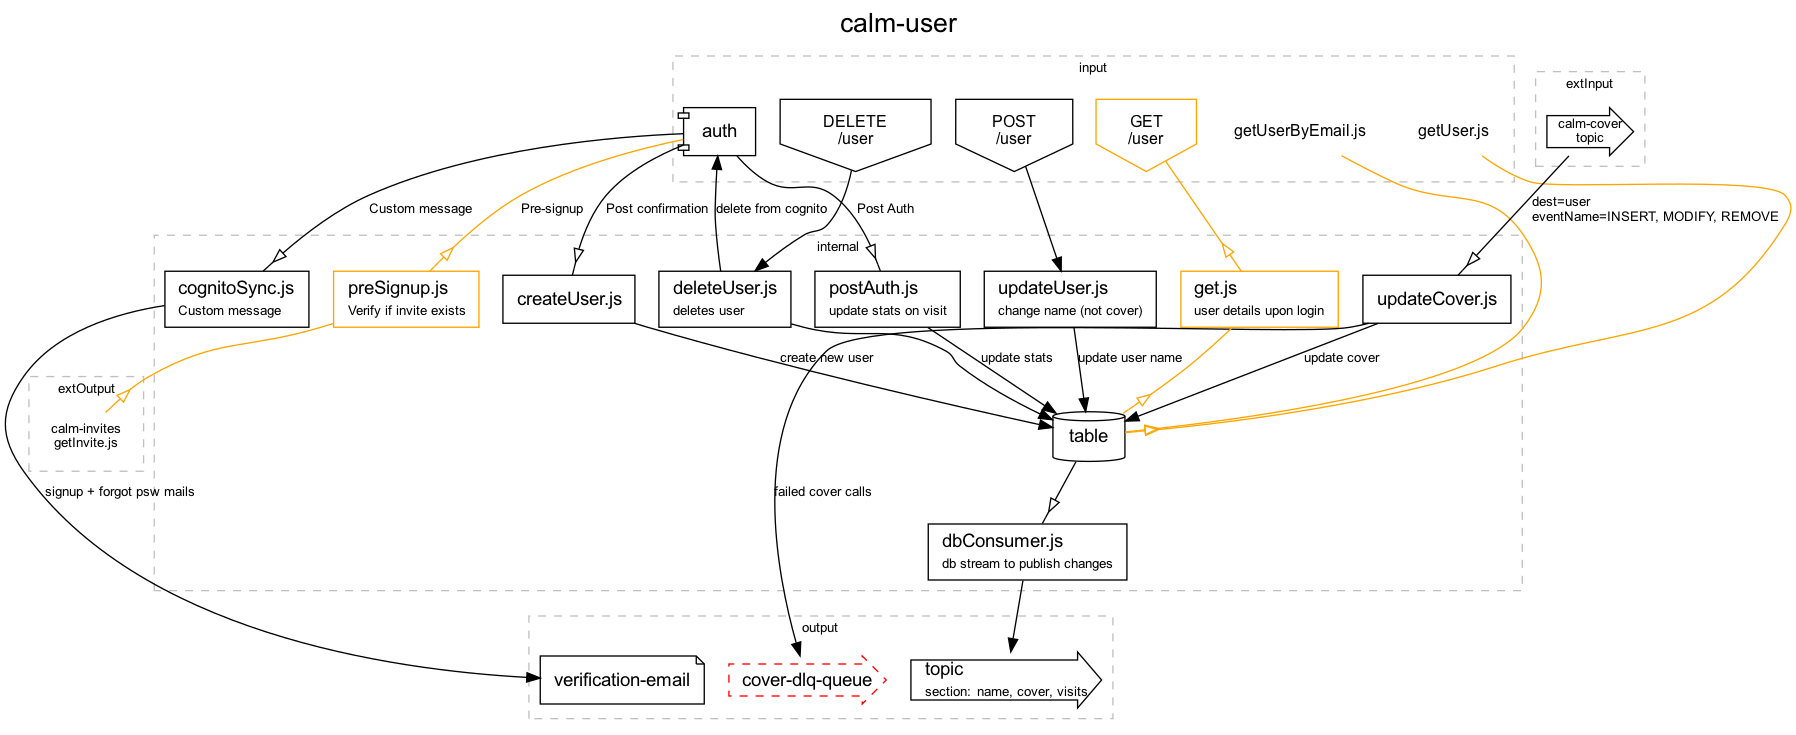
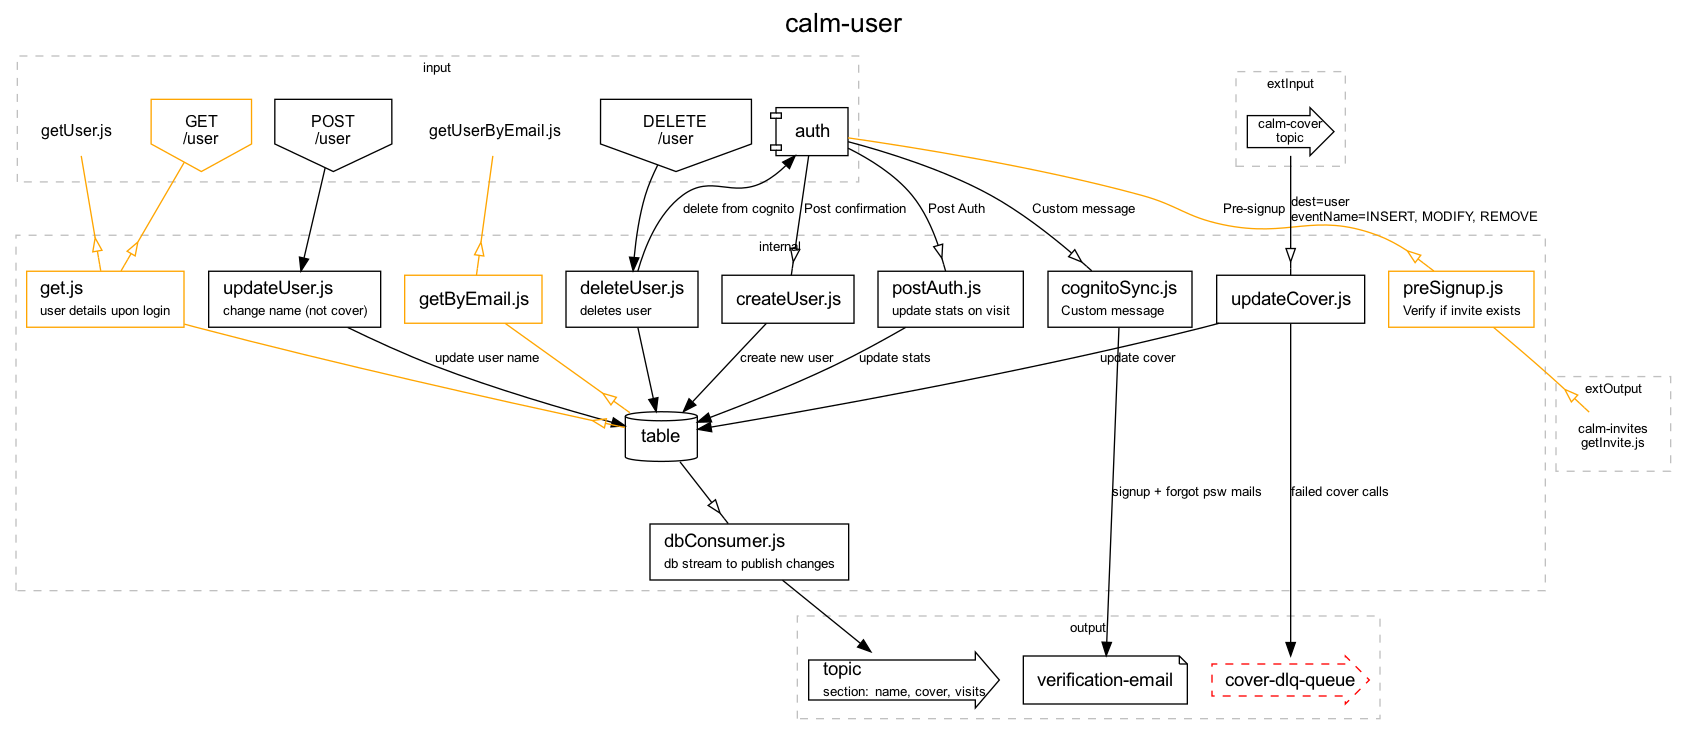
add invoked functions to client todos

diff --git a/npm/libs/checklist-lib.js b/npm/libs/checklist-lib.js
@@ -108,7 +108,12 @@ const clientTodosFromNode = (clientLines, node) => {
             break;
 
         case "function":
-            output.push(`  - [ ] expose function \`${node.name}\``)
+            const specs = (node.pubs) ?
+                `to invoke \`${node.pubs[0].name}\``
+                : (node.queries) ?
+                    `to query \`${node.queries[0].name}\``
+                    : ''
+            output.push(`  - [ ] expose function \`${node.name}\`${specs}`)
             output.push(`  - [ ] expose arn for function \`${node.name}\``)
             break
 

diff --git a/npm/example/stackdef.js b/npm/example/stackdef.js
@@ -3,10 +3,14 @@ module.exports = {
     nodes: [
         {
             name: "getUser.js", cluster: "input",
-            queries: ["table"]
+            queries: ["get.js"]
         },
         {
             name: "getUserByEmail.js", cluster: "input",
+            queries: ["getByEmail.js"]
+        },
+        {
+            name: "getByEmail.js",
             queries: ["table"]
         },
         {

diff --git a/npm/example/stackdef.md b/npm/example/stackdef.md
@@ -31,6 +31,8 @@
     - [ ] add permissions for `get.js` to access `table`
 
 ### In `/src` folder create the handler functions
+  - [ ] create `getByEmail.js` handler
+    - [ ] add query of `table`
   - [ ] create `updateCover.js` handler
     - [ ] add update for `table` to update cover
     - [ ] add update for `cover-dlq-queue` to failed cover calls
@@ -58,5 +60,5 @@
   - [ ] expose arn for API `POST /user`
   - [ ] expose arn for function `getUser.js`
   - [ ] expose arn for function `getUserByEmail.js`
-  - [ ] expose function `getUser.js`
-  - [ ] expose function `getUserByEmail.js`
+  - [ ] expose function `getUser.js`to query `get.js`
+  - [ ] expose function `getUserByEmail.js`to query `getByEmail.js`
